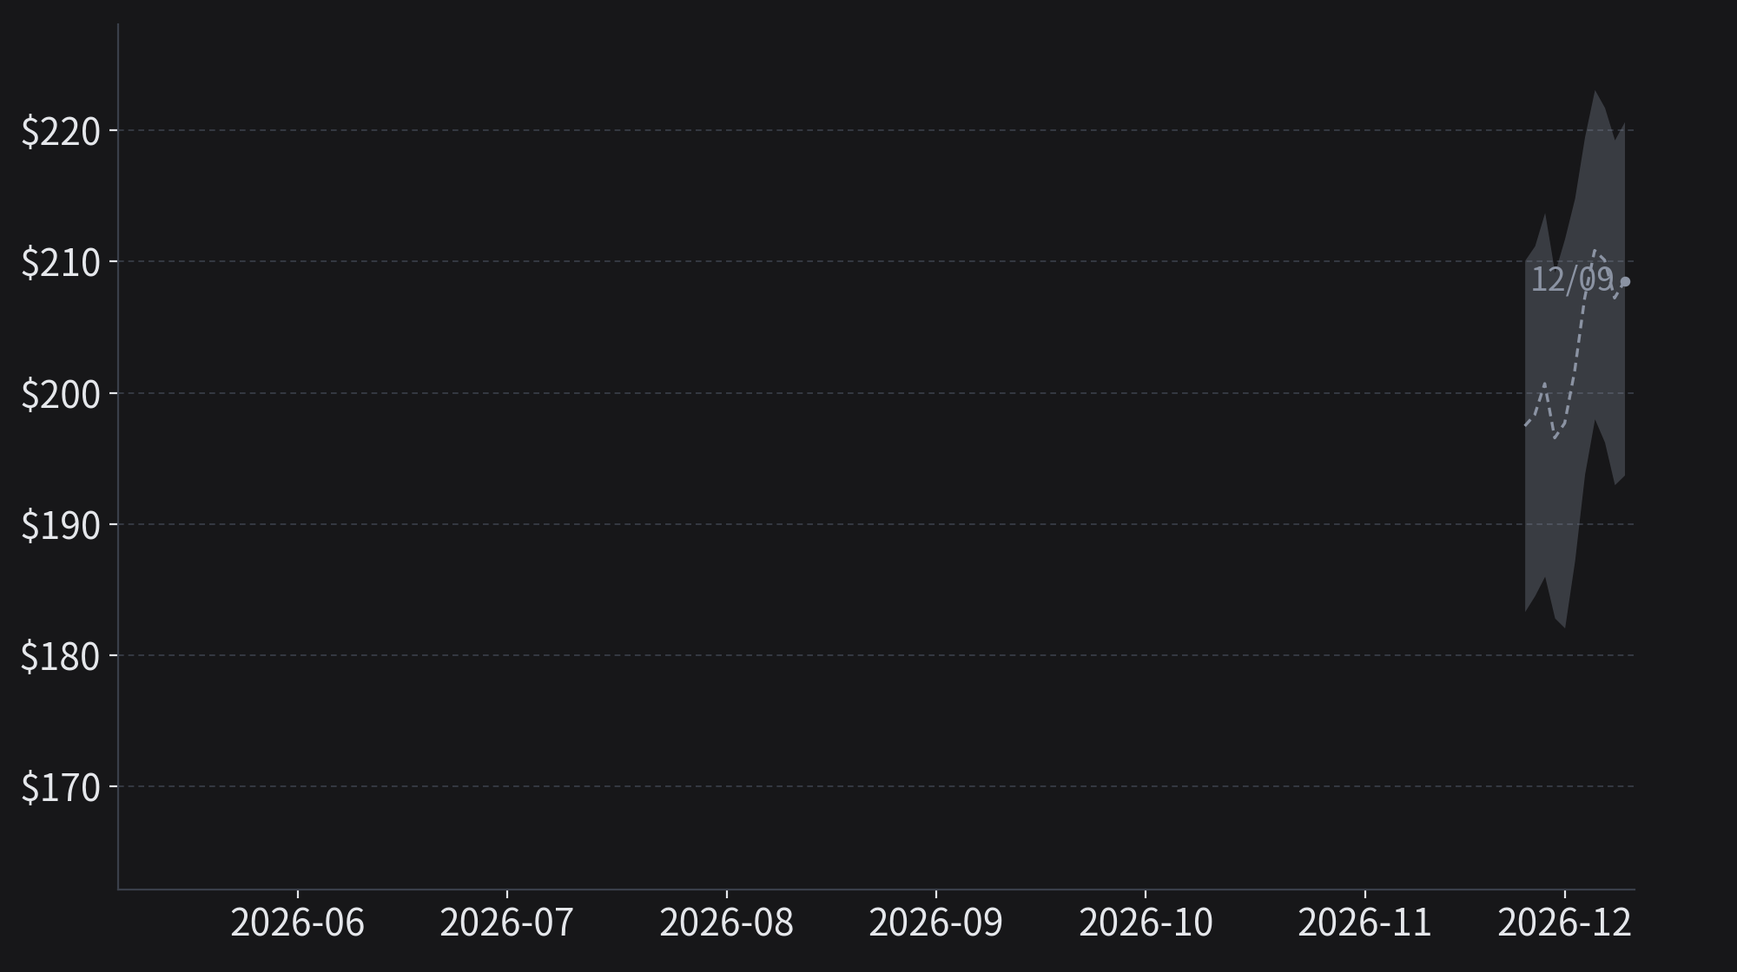
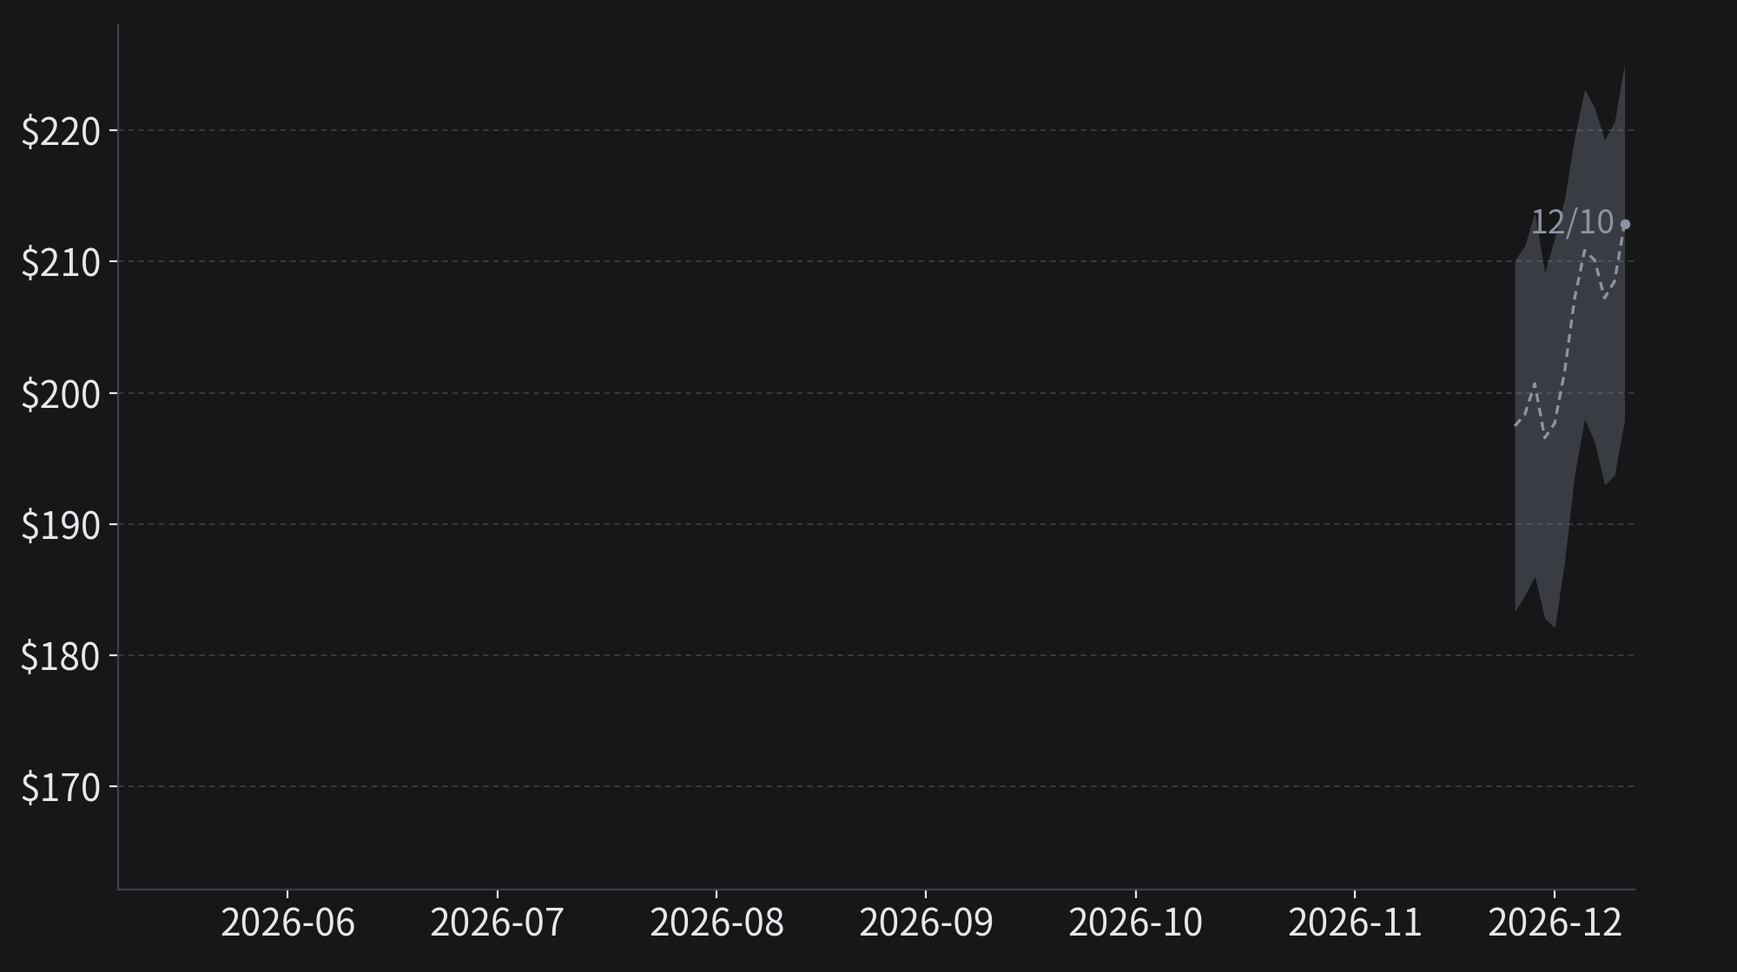
2026-11-06 biotech 리포트 공개본

diff --git a/r/20261106-biotech/report.html b/r/20261106-biotech/report.html
@@ -1,0 +1,108 @@
+<h2 id="1개월-지수-방향-예측">1개월 지수 방향 예측</h2>
+<p><img src="r/20261106-biotech/chart-biotech.png?v=36335bd75c" /></p>
+<p><img src="r/20261106-biotech/predict-biotech.png?v=b436c00d39" /></p>
+<h3 id="현재-상태-ai-하드웨어-매도-때문에-바이오-주가도-하루에-5-하락했다"><mark>현재 상태</mark> AI 하드웨어 매도 때문에 바이오 주가도 하루에 5% 하락했다</h3>
+<p>5일 미국 증시가 크게 하락했고 바이오 주가도 함께 하락했다. 대형 바이오 ETF인 IBB는 5.04% 하락했고, 중소형 바이오 ETF인 XBI는 더 크게 하락했다. 바이오 기업에서 나온 악재는 없었다.</p>
+<p>CNN은 5일 민주당이 텍사스 주지사 선거에서 이긴 일을 매도의 주요 원인으로 들었다. 당선자가 데이터센터 건설의 일시 중단을 공약했기 때문이다. 노무라는 같은 날 레버리지 ETF가 장 마감 무렵 약 470억 달러어치 주식을 팔 것으로 추정했다. AI 인프라에 대한 투자가 늦어질 수 있다는 걱정 때문에 시장이 기술주와 바이오 주식을 함께 판 것이다.</p>
+<p>국채 금리는 오히려 내렸다. 10년물 국채 수익률은 4.84%로 9월 9일 이후 가장 낮았다. 연방기금 선물에서 12월 금리 인상 확률은 하루 만에 82%에서 68.6%로 내렸다. 주식 시장의 충격 때문에 금리 인상 기대가 줄어든 것이다.</p>
+<h3 id="주요-분기와-예측-하이일드-채권-스프레드가-넓어지는지에-따라-바이오-주가가-회복할지-더-하락할지-달라진다"><mark>주요 분기와 예측</mark> 하이일드 채권 스프레드가 넓어지는지에 따라 바이오 주가가 회복할지 더 하락할지 달라진다</h3>
+<p>앞으로 한 달 동안 세 가지 일이 바이오 주가를 움직인다.</p>
+<p>첫째, 5일 매도 뒤에 바이오 주가가 회복하는지가 중요하다. 바이오 기업에서 나온 악재 없이 IBB가 하루 4.5% 넘게 하락한 과거 사례에서는 대부분 열흘 안에 주가가 회복했다. 하락이 길게 이어진 사례에서는 모두 회사채의 신용 프리미엄이 크게 올랐다. 하이일드 채권 스프레드(신용등급이 낮은 회사채의 금리가 국채 금리보다 높은 폭)는 4일 3.32%로 지난달 말보다 낮다. 스프레드가 크게 오르지 않으면 바이오 주가가 회복할 가능성이 높다.</p>
+<p>둘째, AI 인프라 기업의 부채에 대한 불안이 커졌다. 미국 중간선거 뒤 AI 클라우드 기업 코어위브의 채권 가격이 크게 하락했다. 이 불안이 하이일드 채권 전체로 커지면 바이오 주가는 회복하지 못하고 더 하락한다.</p>
+<p>셋째, 미국과 이란이 다시 충돌하는지와 합의하는지가 중요하다. 미국이 이란을 다시 타격할 가능성은 낮지 않다. 이달 안에 호르무즈 해협 합의가 나올 가능성은 낮다.</p>
+<h3 id="지수-영향-횡보-시나리오의-가능성이-가장-높고-상승-시나리오의-가능성이-어제보다-커졌다"><mark>지수 영향</mark> 횡보 시나리오의 가능성이 가장 높고, 상승 시나리오의 가능성이 어제보다 커졌다</h3>
+<p>다섯 시나리오 가운데 횡보 시나리오의 가능성이 가장 높다. 상승 시나리오의 가능성은 두 번째로 높다. 하이일드 채권 스프레드가 넓어지면 하락 시나리오의 가능성이 커진다. 스프레드가 지금과 비슷한 수준이면 상승 시나리오의 가능성이 커진다.</p>
+<p>어제보다 큰 상승과 상승 시나리오의 가능성이 커졌고, 하락과 큰 하락 시나리오의 가능성은 작아졌다. 바이오 주가는 5일 하락으로 낮아졌다. 5일 하락에는 바이오 기업에서 나온 악재가 없었다. 같은 날 국채 금리와 금리 인상 기대도 함께 내렸다. 악재가 없었고 금리 인상 기대도 줄었기 때문에 바이오 주가가 회복할 가능성이 커진 것이다.</p>
+<h2 id="주요-이슈-해설">주요 이슈 해설</h2>
+<h3 id="1-데이터센터-규제-우려-때문에-바이오-동반-하락-양방향-중요도-높음">1. 데이터센터 규제 우려 때문에 바이오 동반 하락 <code>양방향</code> <code>중요도 높음</code></h3>
+<h4 id="이슈-해설-5일-ibb가-하루에-504-하락했다"><mark>이슈 해설</mark> 5일 IBB가 하루에 5.04% 하락했다</h4>
+<p>5일 데이터센터 규제에 대한 우려 때문에 미국 기술주가 크게 하락했고, 대형 바이오 ETF인 IBB도 하루에 5.04% 하락했다. 시장은 주식 전체의 위험을 줄이려고 바이오 기업의 실적과 관계없이 바이오 주식을 판 것이다.</p>
+<p>CNN은 5일 나스닥100이 2020년 3월 이후 가장 큰 폭인 6.36% 내렸다고 전했다. 같은 날 중소형 바이오 ETF인 XBI는 6.73% 하락했다. 대형 헬스케어 ETF인 XLV는 2.50% 하락했다. 시장은 바이오 기업 가운데 변동성이 큰 중소형 기업의 주식부터 판 것이다.</p>
+<p>미국 중간선거의 결과 때문에 매도가 시작됐다. CNN은 5일 텍사스 주지사 당선자가 데이터센터 건설의 일시 중단을 공약했다고 전했다. 로이터에 따르면 노무라는 장중 메모에서 레버리지 ETF가 같은 날 장 마감 무렵 약 470억 달러어치 주식을 팔 것으로 예상했다. 시장이 AI 인프라 투자가 늦어질 것을 걱정해 주식을 팔았고, 레버리지 ETF의 매도가 하락 폭을 키운 것이다.</p>
+<p>다만 바이오 주가가 회복할 가능성이 높다. 바이오 기업에서 나온 악재 없이 IBB가 하루 4.5% 넘게 하락한 과거 열두 사례에서는 열흘 뒤 중앙값 기준으로 주가가 6.7% 올랐다. 하락이 이어진 세 사례에서는 모두 회사채의 신용 프리미엄이 0.5%포인트 넘게 올랐다. 지금 하이일드 채권 스프레드는 4일 3.32%로 지난달 말보다 낮다.</p>
+<p>그러나 첫 회복 뒤에 바이오 주가가 다시 하락할 수 있다. 2015년 8월에는 IBB가 열흘 만에 회복했다가 한 달 안에 다시 크게 하락했다. 클리블랜드 연은의 해맥 총재와 리치먼드 연은의 바킨 총재는 5일에도 추가 금리 인상이 필요하다고 말했다. 연준이 금리 인상 기대를 다시 키우면 회복하던 바이오 주가가 다시 하락할 수 있다.</p>
+<p>VIX는 28.18까지 올랐고, 30일 변동성 예상치가 3개월 변동성 예상치보다 높아졌다. 시장이 단기 충격을 크게 걱정하는 것이다.</p>
+<h3 id="2-미국의-이란-재타격과-호르무즈-합의-양방향-중요도-높음">2. 미국의 이란 재타격과 호르무즈 합의 <code>양방향</code> <code>중요도 높음</code></h3>
+<h4 id="이슈-해설-5일-브렌트유가-4-가까이-올랐다"><mark>이슈 해설</mark> 5일 브렌트유가 4% 가까이 올랐다</h4>
+<p>언론은 5일 호르무즈 해협 부근에서 유조선 여러 척이 피격됐다고 보도했다. 브렌트유 가격은 전날 하락분의 일부를 회복했다. 시장이 미국 중간선거 뒤 기대한 미국과 이란의 조기 합의를 다시 의심한 것이다.</p>
+<p>로이터에 따르면 시장이 5일 이란 전쟁의 전망을 다시 평가하며 유조선 공격 때문에 공급을 우려하자 유가가 올랐다. 알자지라에 따르면 이란 혁명수비대는 같은 날 호르무즈 해협 동쪽에서 유조선 여러 척이 기뢰에 맞았다고 밝혔다. 브렌트유는 4일 8.7% 하락한 뒤 5일 4% 가까이 올랐다. 시장이 4일 유가에 반영했던 종전 기대를 5일 일부 줄인 것이다.</p>
+<p>미국과 이란의 합의 가능성은 낮아졌다. CNBC에 따르면 컨설팅사 Eurasia Group은 5일 미국과 이란의 합의 가능성을 20%에서 10%로 낮췄다. 예측시장 Polymarket에서 연말까지 호르무즈 합의가 이뤄질 가능성은 5일 34.5%로 하루 1%포인트 내렸다.</p>
+<p>미국의 이란 재타격 가능성은 여전히 낮지 않다. 폭스뉴스는 5일 미국 중부사령부가 대규모 작전을 다시 시작할 준비를 하고 있지만 새 지시를 받지 않았다고 전했다.</p>
+<p>다만 5일에는 유가가 올랐는데도 금리 인상 기대가 커지지 않았다. 12월 금리 인상 확률은 같은 날 내렸다. 5년 기대 인플레이션은 2.26%로 평상시 범위에 있다. 유가에서 바이오 주가로 이어지는 경로가 5일에는 작동하지 않은 것이다.</p>
+<p>시장은 미국과 이란의 합의 기대를 유가에 일부만 반영하고 있다. 브렌트유는 5일 배럴당 99달러대로 선거 전의 104달러대보다 낮다.</p>
+<p>합의가 나오면 유가의 추가 하락 때문에 바이오 주가가 오를 수 있다. 미국이 이란을 크게 타격하면 유가의 재상승 때문에 바이오 주가가 하락할 수 있다.</p>
+<h3 id="3-ai-인프라-기업의-신용과-하이일드-스프레드-하락-요인-중요도-높음">3. AI 인프라 기업의 신용과 하이일드 스프레드 <code>하락 요인</code> <code>중요도 높음</code></h3>
+<h4 id="이슈-해설-4일-코어위브의-2031년-만기-채권-가격이-액면가의-795까지-하락했다"><mark>이슈 해설</mark> 4일 코어위브의 2031년 만기 채권 가격이 액면가의 79.5%까지 하락했다</h4>
+<p>미국 중간선거 뒤 AI 클라우드 기업 코어위브의 채권 가격이 크게 하락했다. 시장은 데이터센터 규제가 AI 인프라 기업의 빠듯한 자금 사정을 더 어렵게 만들 수 있다는 이유로 코어위브 채권을 판 것이다.</p>
+<p>블룸버그 로에 따르면 코어위브의 2031년 만기 무담보채는 4일 액면가의 79.5% 수준까지 하락했고 하이일드 채권 가운데 낙폭이 가장 컸다. 코어위브의 2030년과 2032년 만기 채권은 수익률이 15%를 넘었다. CNBC는 같은 날 코어위브의 5년 만기 신용부도스와프(CDS, 채무불이행 위험을 매매하는 계약) 스프레드가 3% 올라 1,139.7bp가 됐다고 전했다. 시장이 코어위브의 부도 위험을 크게 예상하는 것이다.</p>
+<p>AI 인프라 기업은 선거 전부터 자금을 조달하는 데 드는 비용이 올라 있었다. 오라클은 2일 100억 달러어치 선순위채를 팔면서 2월보다 크게 높은 가산금리를 냈다. CNBC는 지난달 21일 하이일드 채권 발행이 선거 뒤까지 사실상 멈췄다고 전했다. 데이터센터에 정치적 반발이 일어날 수 있다는 걱정 때문이라는 것이다.</p>
+<p>다만 AI 기업의 부채에 대한 불안이 하이일드 채권 전체로 커지지는 않았다. 하이일드 채권 스프레드는 4일 3.32%로 지난달 30일의 3.44%보다 낮다. 금융시장 전반의 자금 조달 여건을 재는 NFCI도 정상 범위에 있다.</p>
+<p>5일 이후의 하이일드 채권 스프레드가 중요하다. 스프레드가 3.5%를 넘으면 바이오 주가가 회복하지 못할 가능성이 커진다. 이때는 하락 기간이 길어질 가능성도 커진다. 시장 충격 뒤 하락이 길어진 과거 사례에서는 모두 회사채의 신용 프리미엄이 크게 올랐다.</p>
+<p>시장은 AI 인프라 기업의 부채에 대한 불안을 개별 채권의 가격에만 반영하고 있다. 하이일드 채권 스프레드는 1년 가운데 높은 편이지만 위기 때보다 훨씬 낮다.</p>
+<h3 id="4-아스트라제네카의-rhythm-인수-제안-상승-요인-중요도-높음">4. 아스트라제네카의 Rhythm 인수 제안 <code>상승 요인</code> <code>중요도 높음</code></h3>
+<h4 id="이슈-해설-아스트라제네카가-비만-치료제를-개발하는-rhythm에-약-100억-달러-인수를-제안했다"><mark>이슈 해설</mark> 아스트라제네카가 비만 치료제를 개발하는 Rhythm에 약 100억 달러 인수를 제안했다</h4>
+<p>영국 제약사 아스트라제네카가 비만 치료제를 개발하는 미국 기업 Rhythm Pharmaceuticals를 약 100억 달러에 인수하겠다고 제안했다는 보도가 나왔다. 미국 중간선거 뒤 바이오 업종에서 큰 규모의 인수 협상이 처음 나왔다.</p>
+<p>로이터는 4일 소식통 3명을 인용해 아스트라제네카가 Rhythm에 구속력 없는 인수를 주당 최대 134달러, 약 100억 달러에 제안했다고 전했다. 제안 금액에는 개발 성과에 따른 추가 지급이 포함됐다. 월스트리트저널은 같은 날 아스트라제네카가 지난달 주당 124달러를 제안했었다고 먼저 보도했다. 아스트라제네카가 제안 가격을 올린 것이다.</p>
+<p>아스트라제네카의 제안은 미국 중간선거를 기다리던 거래가 다시 시작됐다는 의미이다. 바이오 투자은행 Locust Walk의 메이어슨은 지난달 인터뷰에서 거래 당사자들이 중간선거까지 기다리고 있다고 말했다. 지난달에는 미국 상장 바이오텍을 10억 달러 넘게 인수한 거래가 Viatris의 Pacira 인수와 Merck KGaA의 Silence 인수 두 건뿐이었다.</p>
+<p>다만 협상은 아직 확정 발표로 이어지지 않았다. 5일 바이오 주가가 크게 하락했다. 인수 대상의 주가가 내리면 인수 가격이 낮아질 수 있다. 협상이 늦어질 수도 있다.</p>
+<p>대형 인수가 이달 안에 발표되면 바이오 주가가 오를 수 있다. 과거 비슷한 시기에도 대형 인수가 발표된 날 IBB가 하루 1%대로 올랐다.</p>
+<p>시장은 아직 인수 협상에 대한 보도를 바이오 주가에 크게 반영하지 않았다.</p>
+<h3 id="5-바이오-기업의-자금-조달-창구-양방향-중요도-보통">5. 바이오 기업의 자금 조달 창구 <code>양방향</code> <code>중요도 보통</code></h3>
+<h4 id="이슈-해설-5일-disc-medicine과-orchestra-biomed가-새-자금-조달을-공시했다"><mark>이슈 해설</mark> 5일 Disc Medicine과 Orchestra BioMed가 새 자금 조달을 공시했다</h4>
+<p>5일 바이오 주가가 크게 하락했지만 바이오 기업의 자금 조달은 이어졌다. 공모를 철회하거나 연기한 바이오 기업은 없었다. 바이오 기업의 자금 조달 창구가 아직 열려 있는 것이다.</p>
+<p>미국 증권거래위원회(SEC) 공시에 따르면 희귀 혈액질환 치료제를 개발하는 기업 Disc Medicine은 5일 주식을 수시로 팔 수 있는 최대 1억 8,992만 달러 규모의 프로그램을 등록했다. 의료기기 기업 Orchestra BioMed는 같은 날 가격을 정하지 않은 공모에 쓸 예비 설명서를 냈다. 유전자편집 기업 Intellia는 공시에서 9월 최대 4억 달러의 담보 대출을 받았다고 밝혔다. 바이오 기업이 주식 매각, 공모, 담보 대출 세 방법으로 자금을 조달하는 것이다.</p>
+<p>다만 바이오 주가가 더 크게 하락하면 바이오 기업 가운데 중소형 기업은 자금을 조달하기 어려워질 수 있다. 유전자편집 기업 Caribou는 5일 낸 분기 보고서에서 자금 조달 환경 때문에 지난달 세포치료제 임상을 멈추고 전략적 대안을 찾기로 했다고 밝혔다. 로이터는 같은 날 AI 기업 앤트로픽의 상장이 이달 안에 진행될 수 있는지 의문이 커졌다고 전했다. 대형 상장이 늦어지면 바이오 기업의 공모에 대한 시장의 수요도 줄어들 수 있다.</p>
+<p>시장은 아직 자금 조달 창구가 닫힐 위험을 바이오 주가에 크게 반영하지 않았다. 지난달 상장한 바이오 기업 Bambusa와 Aspen의 주가는 첫 거래일에 공모가를 조금 밑돌았다.</p>
+<h3 id="검토했지만-비중을-낮춘-이슈">검토했지만 비중을 낮춘 이슈</h3>
+<ul>
+<li><strong>모더나 3분기 실적</strong>: 모더나 주가가 5일 6.55% 하락해 실적 발표 전 기대가 이미 낮아졌다. 실적 결과가 나와도 지수는 크게 움직이지 않는다.</li>
+<li><strong>10월 고용보고서</strong>: 실업률 4.2%라는 컨센서스를 시장이 널리 받아들이고 있다. 결과가 컨센서스와 크게 다를 가능성이 낮다.</li>
+<li><strong>연방정부 임시예산 만료</strong>: 예측시장 Kalshi에서 셧다운 가능성은 선거 뒤 오히려 내렸다. 결과가 이번 한 달의 끝에 나온다.</li>
+<li><strong>메디케어 3차 약가 협상 공표</strong>: 길리어드가 협상 가격을 이미 공개했다. 시장이 이미 예상한 결과다.</li>
+</ul>
+<h2 id="다가오는-이벤트">다가오는 이벤트</h2>
+<h3 id="1104수-장전-재무부-4분기-리펀딩-중요도-보통" data-day="2026-11-04" data-level="mid"><span class="when">11/04(수) 22:30 KST</span>재무부 4분기 리펀딩 <code>중요도 보통</code></h3>
+<table class="events judged">
+<thead><tr><th>분기</th><th>확률</th><th>전개 예상</th></tr></thead>
+<tbody>
+<tr class="hit"><td class="branch">쿠폰 규모·지침 유지</td><td class="chance">50%</td><td>시장이 예상한 결과라 주가가 크게 움직이지 않는다. <span class="outcome">→ 재무부가 쿠폰·변동금리채 입찰 규모를 향후 몇 분기 유지한다고 밝히고 지침에서 '적어도'만 뺐다. 그날 10년물 금리는 6.6bp 내린 4.88%였다.</span></td></tr>
+<tr><td class="branch">지침 변경으로 장기물 축소 시사·단기물 확대</td><td class="chance">42%</td><td>장기 국채 공급이 줄어 장기 금리가 조금 내리고 주가가 조금 오른다.</td></tr>
+<tr><td class="branch">쿠폰 증액 예고</td><td class="chance">8%</td><td>장기 금리가 다시 올라 바이오 주가가 하락한다.</td></tr>
+</tbody>
+</table>
+<h3 id="1104수-장전-미국-중간선거-중요도-보통" data-day="2026-11-04" data-level="mid"><span class="when">11/04(수) 23:00 KST</span>미국 중간선거 <code>중요도 보통</code></h3>
+<table class="events judged">
+<thead><tr><th>분기</th><th>확률</th><th>전개 예상</th></tr></thead>
+<tbody>
+<tr class="hit"><td class="branch">민주당 상·하원 장악</td><td class="chance">88%</td><td>시장이 예상한 결과라 주가가 크게 움직이지 않는다. 약가 청문 소식이 나오면 며칠 동안 바이오 주가가 시장 전체보다 덜 오르거나 더 하락할 수 있다. <span class="outcome">→ 민주당이 상원과 하원 다수를 모두 차지했다고 AP가 확정 보도했다. 선거 다음 날 IBB는 2.63% 올라 S&amp;P500보다 약 1%p 더 올랐다.</span></td></tr>
+<tr><td class="branch">민주 하원·공화 상원 분할</td><td class="chance">10%</td><td>약가 입법에 대한 걱정이 줄어 바이오 주가가 오른다.</td></tr>
+<tr><td class="branch">공화당 상·하원 유지</td><td class="chance">2%</td><td>약가 규제에 대한 걱정이 크게 줄어 바이오 주가가 오른다.</td></tr>
+</tbody>
+</table>
+<p><img src="r/20261106-biotech/tree-biotech.png?v=62ce79c147" /></p>
+<h3 id="1106금-장전-모더나-3분기-실적-중요도-보통" data-day="2026-11-06" data-level="mid"><span class="when">장전</span>모더나 3분기 실적 <code>중요도 보통</code></h3>
+<table class="events">
+<thead><tr><th>분기</th><th>확률</th><th>전개 예상</th></tr></thead>
+<tbody>
+<tr><td class="branch">3분기 매출이 연간 목표 경로 유지</td><td class="chance">48%<br><small class="delta up">▲3%p</small></td><td>백신 매출에 대한 걱정이 줄어 모더나 주가가 오르고 바이오 지수도 조금 오른다</td></tr>
+<tr><td class="branch">3분기 매출 미달 또는 연간 목표 하향</td><td class="chance">52%<br><small class="delta down">▼3%p</small></td><td>모더나 주가가 하락하고 바이오 지수도 조금 하락한다. 모더나 주가가 이미 하락했기 때문에 지수 하락 폭은 크지 않다</td></tr>
+</tbody>
+</table>
+<h3 id="1106금-장전-10월-고용보고서-중요도-보통" data-day="2026-11-06" data-level="mid"><span class="when">11/06(금) 22:30 KST</span>10월 고용보고서 <code>중요도 보통</code></h3>
+<table class="events">
+<thead><tr><th>분기</th><th>확률</th><th>전개 예상</th></tr></thead>
+<tbody>
+<tr><td class="branch">실업률 4.1% 이하·고용 견조</td><td class="chance">32%<br><small class="delta flat">–</small></td><td>12월 금리 인상 기대가 다시 커져 국채 금리가 오르고 바이오 주가는 하락한다</td></tr>
+<tr><td class="branch">실업률 4.2% 안팎</td><td class="chance">50%<br><small class="delta flat">–</small></td><td>시장이 예상한 결과라 바이오 주가가 크게 움직이지 않는다</td></tr>
+<tr><td class="branch">실업률 4.3% 이상</td><td class="chance">18%<br><small class="delta flat">–</small></td><td>금리 인상 기대가 줄어 바이오 주가가 오를 수 있다. 경기에 대한 걱정이 커지면 주가가 하락할 수도 있다</td></tr>
+</tbody>
+</table>
+<h3 id="1110화-장전-10월-cpi-중요도-낮음" data-day="2026-11-10" data-level="low"><span class="when">11/10(화) 22:30 KST</span>10월 CPI <code>중요도 낮음</code></h3>
+<table class="events">
+<thead><tr><th>분기</th><th>확률</th><th>전개 예상</th></tr></thead>
+<tbody>
+<tr><td class="branch">근원 전월비 0.3% 이상</td><td class="chance">33%<br><small class="delta flat">–</small></td><td>12월 금리 인상 기대가 커져 국채 금리가 오르고 바이오 주가는 하락한다</td></tr>
+<tr><td class="branch">근원 전월비 0.2%대</td><td class="chance">52%<br><small class="delta flat">–</small></td><td>시장이 예상한 결과라 바이오 주가가 크게 움직이지 않는다</td></tr>
+<tr><td class="branch">근원 전월비 0.1% 이하</td><td class="chance">15%<br><small class="delta flat">–</small></td><td>금리 인상이 끝난다는 기대가 생겨 바이오 주가가 오른다</td></tr>
+</tbody>
+</table>
